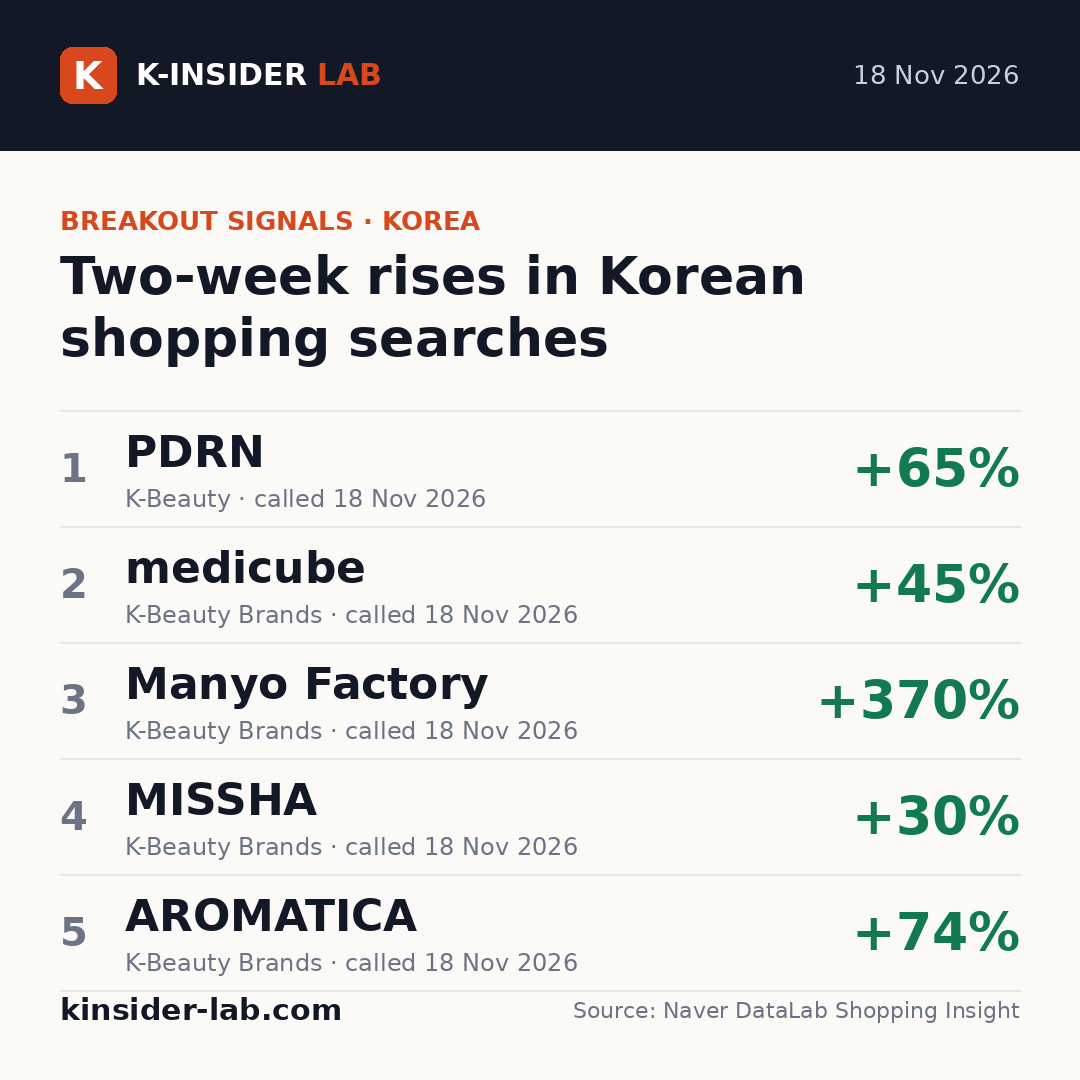
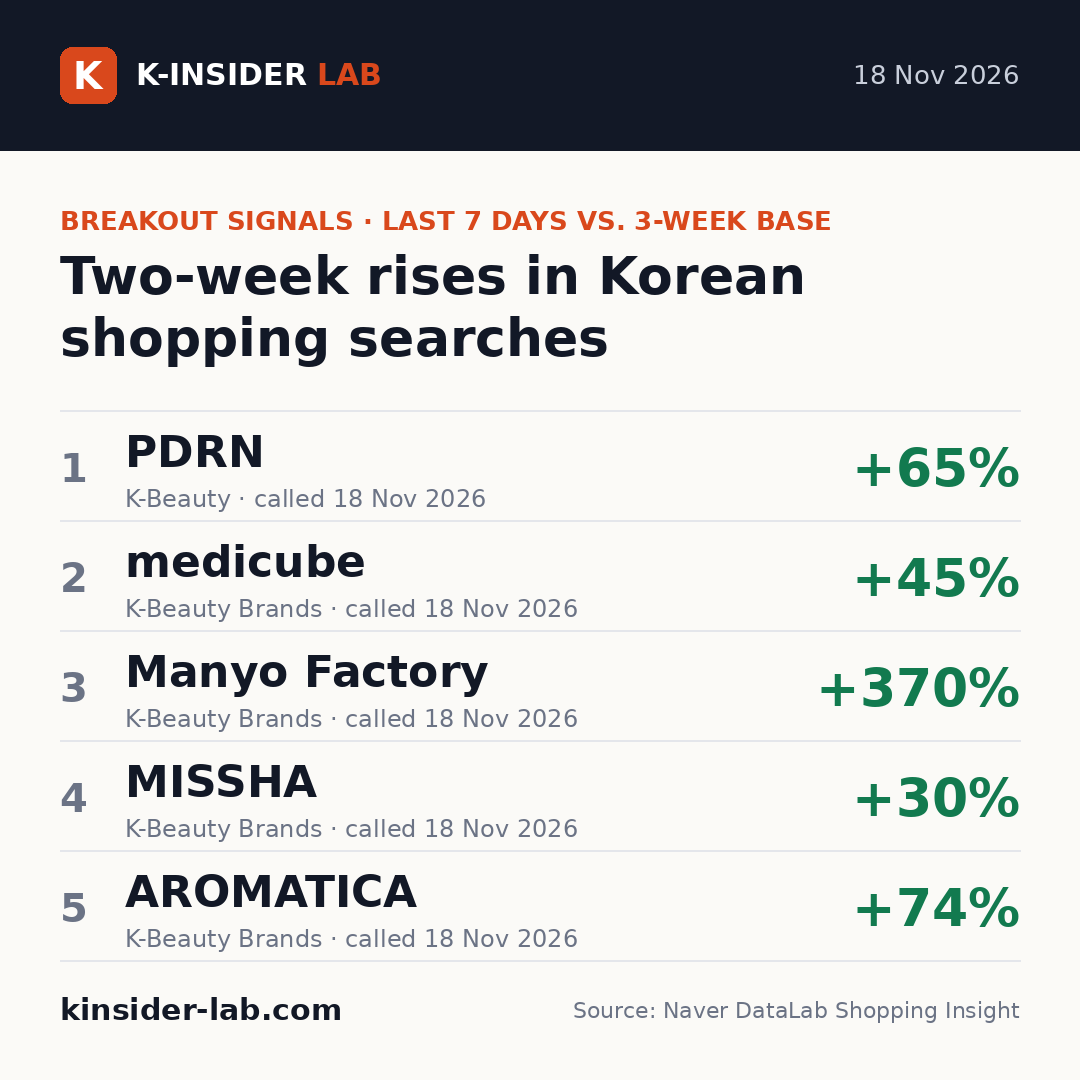
Breakout card: state comparison base, more footer room
Claude-Session: https://claude.ai/code/session_01ET7pit4UP5j88qyVduRRj5

diff --git a/pipeline/cards.py b/pipeline/cards.py
@@ -61,7 +61,7 @@ def render(run_date, label, title_lines, rows, out_png, extra=None):
         d.text((125, y + 42), name, font=fit(d, name, 44, True, 600), fill=INK, anchor="lm")
         d.text((125, y + 88), sub, font=fit(d, sub, 24, False, 600), fill=MUTED, anchor="lm")
         d.text((S - 60, y + 58), value, font=fit(d, value, 52, True, 260), fill=color, anchor="rm")
-        y += 116
+        y += 110
     d.line([60, y, S - 60, y], fill=LINE, width=2)
     if extra and len(rows) < 5:
         title, name, value, color = extra
@@ -107,11 +107,12 @@ def breakout_card(snapshot):
     for x in active[:5]:
         ch = x["latest"]["level"] / x["early_baseline"] - 1 if x.get("early_baseline") else 0
         rows.append((x["en"], f"{x['segment_title']} · called {build.nice_date(x['called'])}", build.pct(ch), color_for(ch)))
-    caption = ["Breakout signals from Korean online shopping: rises that held for two weeks.", ""]
-    caption += [f"• {x['en']} ({x['segment_title']}), called {build.nice_date(x['called'])}" for x in active[:5]]
+    caption = ["Breakout signals from Korean online shopping: rises that held for two weeks.",
+               "Change = last 7 days vs. the 3 weeks before the prior week.", ""]
+    caption += [f"• {r[0]} {r[2]} ({r[1]})" for r in rows]
     caption += ["", "Every call is tracked publicly after 7, 14 and 28 days, hits and misses: "
                     "link in bio (kinsider-lab.com/signals)", "", TAGS]
-    return ("BREAKOUT SIGNALS · KOREA", ["Two-week rises in Korean", "shopping searches"], rows, None, "\n".join(caption))
+    return ("BREAKOUT SIGNALS · LAST 7 DAYS VS. 3-WEEK BASE", ["Two-week rises in Korean", "shopping searches"], rows, None, "\n".join(caption))
 
 
 def track_card(snapshot):
